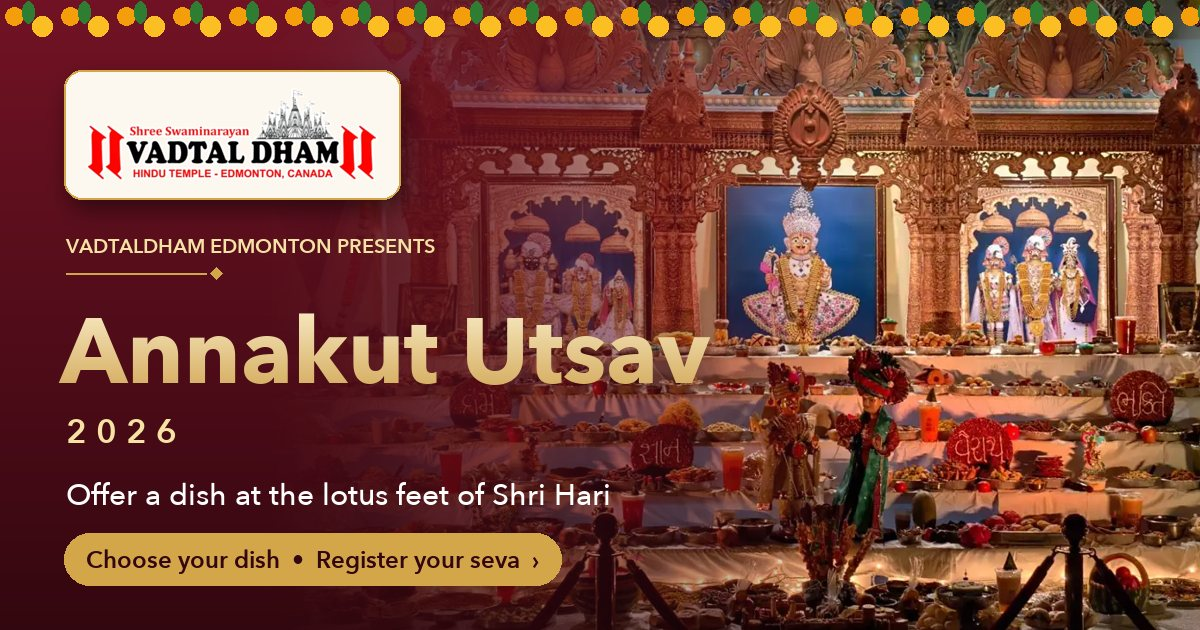
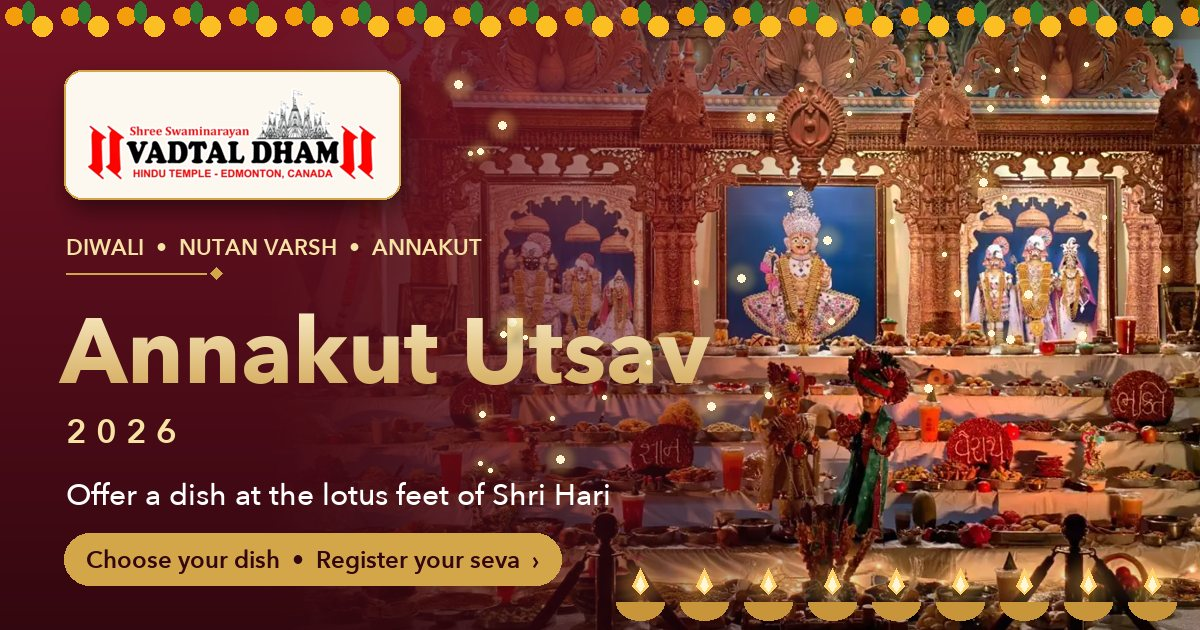
Diwali design, photo-fade hero, home button, section shortcuts, recipe tabs EN/GU/HI

diff --git a/index.html b/index.html
@@ -3,23 +3,23 @@
 <head>
 <meta charset="utf-8">
 <meta name="viewport" content="width=device-width,initial-scale=1,viewport-fit=cover">
-<title>Annakut Utsav 2026 | Vadtaldham Edmonton</title>
+<title>Diwali Annakut Utsav 2026 | Vadtaldham Edmonton</title>
 <meta name="description" content="Offer a dish at the lotus feet of Shri Hari. Choose from 970 Annakut dishes, read each recipe in English, Gujarati, Hindi or Punjabi, and register your seva in two easy steps.">
 <meta property="og:type" content="website">
 <meta property="og:site_name" content="Vadtaldham Edmonton">
 <meta property="og:url" content="https://vadtal1008.github.io/annakut-seva/">
-<meta property="og:title" content="Annakut Utsav 2026 · Offer a dish to Shri Hari">
+<meta property="og:title" content="Diwali Annakut Utsav 2026 · Offer a dish to Shri Hari">
 <meta property="og:description" content="Choose your dish from 970 Annakut offerings, see the recipe in your language, and register your seva at Vadtaldham Edmonton. Jay Swaminarayan!">
-<meta property="og:image" content="https://vadtal1008.github.io/annakut-seva/img/og.jpg">
-<meta property="og:image:secure_url" content="https://vadtal1008.github.io/annakut-seva/img/og.jpg">
+<meta property="og:image" content="https://vadtal1008.github.io/annakut-seva/img/og.jpg?v=diwali1">
+<meta property="og:image:secure_url" content="https://vadtal1008.github.io/annakut-seva/img/og.jpg?v=diwali1">
 <meta property="og:image:type" content="image/jpeg">
 <meta property="og:image:width" content="1200">
 <meta property="og:image:height" content="630">
 <meta property="og:image:alt" content="Annakut Utsav 2026 at Vadtaldham Edmonton: the decorated altar with hundreds of dishes">
 <meta name="twitter:card" content="summary_large_image">
-<meta name="twitter:title" content="Annakut Utsav 2026 · Offer a dish to Shri Hari">
+<meta name="twitter:title" content="Diwali Annakut Utsav 2026 · Offer a dish to Shri Hari">
 <meta name="twitter:description" content="Choose your dish, see the recipe in your language, and register your seva at Vadtaldham Edmonton.">
-<meta name="twitter:image" content="https://vadtal1008.github.io/annakut-seva/img/og.jpg">
+<meta name="twitter:image" content="https://vadtal1008.github.io/annakut-seva/img/og.jpg?v=diwali1">
 <meta name="theme-color" content="#721325">
 <link rel="icon" href="img/icon.png">
 <link rel="preconnect" href="https://fonts.googleapis.com"><link rel="preconnect" href="https://fonts.gstatic.com" crossorigin>
@@ -40,6 +40,40 @@ button{cursor:pointer}
 .hero{position:relative;overflow:hidden;color:#fff;text-align:center;padding:64px max(16px,env(safe-area-inset-right)) 120px max(16px,env(safe-area-inset-left));
 background:radial-gradient(90% 70% at 50% 0%,rgba(212,166,74,.22),transparent 60%),radial-gradient(60% 60% at 0% 100%,rgba(232,137,28,.18),transparent 70%),linear-gradient(180deg,var(--m7) 0%,var(--m8) 55%,var(--m9) 100%);transition:padding .3s}
 .hero.compact{padding-top:58px;padding-bottom:96px}
+.hero-photo{position:absolute;inset:0;background:url(img/g/1.webp) right 30%/auto 118% no-repeat;opacity:.62;-webkit-mask-image:linear-gradient(90deg,transparent 0%,rgba(0,0,0,.25) 28%,#000 62%),linear-gradient(180deg,#000 60%,transparent 100%);-webkit-mask-composite:source-in;mask-image:linear-gradient(90deg,transparent 0%,rgba(0,0,0,.25) 28%,#000 62%),linear-gradient(180deg,#000 60%,transparent 100%);mask-composite:intersect;pointer-events:none}
+@media(max-width:820px){.hero-photo{background-position:center top;background-size:cover;opacity:.42;-webkit-mask-image:linear-gradient(180deg,#000 30%,transparent 92%);mask-image:linear-gradient(180deg,#000 30%,transparent 92%)}}
+.hero.compact .hero-photo{opacity:.3}
+.kandil{position:absolute;top:36px;width:52px;height:130px;pointer-events:none;transform-origin:50% 0;animation:swing 4s ease-in-out infinite alternate;filter:drop-shadow(0 0 14px rgba(251,191,36,.55))}
+.k1{left:max(18px,calc(50% - 560px))}.k2{right:max(18px,calc(50% - 560px));animation-delay:-2s;top:36px;height:160px;width:60px}
+@keyframes swing{from{transform:rotate(-5deg)}to{transform:rotate(5deg)}}
+.bursts{position:absolute;inset:0;pointer-events:none}
+.burst{position:absolute;width:150px;height:150px;border-radius:50%;background:repeating-conic-gradient(from 0deg,rgba(255,214,107,.95) 0 2.5deg,transparent 2.5deg 18deg);-webkit-mask:radial-gradient(circle,transparent 22%,#000 24%,#000 46%,transparent 50%);mask:radial-gradient(circle,transparent 22%,#000 24%,#000 46%,transparent 50%);opacity:0;animation:pop 4.2s ease-out infinite}
+.b1{left:14%;top:70px}.b2{right:12%;top:150px;width:120px;height:120px;animation-delay:1.3s;filter:hue-rotate(-30deg)}.b3{left:30%;top:260px;width:100px;height:100px;animation-delay:2.4s}.b4{right:30%;top:40px;width:90px;height:90px;animation-delay:3.1s;filter:hue-rotate(40deg)}
+@keyframes pop{0%{opacity:0;transform:scale(.2)}12%{opacity:.9}55%{opacity:.35;transform:scale(1.15)}100%{opacity:0;transform:scale(1.3)}}
+.twinkles{position:absolute;inset:0;pointer-events:none}
+.twinkles b{position:absolute;width:5px;height:5px;border-radius:50%;background:#fff6d6;box-shadow:0 0 8px 2px rgba(255,214,107,.8);animation:twinkle 3s ease-in-out infinite}
+@keyframes twinkle{0%,100%{opacity:.15}50%{opacity:1}}
+.diyas{position:absolute;left:0;right:0;bottom:84px;display:flex;justify-content:center;gap:clamp(10px,3vw,34px);pointer-events:none;z-index:1}
+.diyas i{display:block;width:clamp(30px,5vw,48px);filter:drop-shadow(0 0 10px rgba(255,190,80,.7))}
+.diyas svg{display:block;width:100%;height:auto}
+.diyas .flame{transform-origin:40px 32px;animation:flick 1.6s ease-in-out infinite alternate}
+.diyas i:nth-child(2n) .flame{animation-duration:1.2s}
+@keyframes flick{0%{transform:scale(1,1)}50%{transform:scale(.88,1.12)}100%{transform:scale(1.06,.9)}}
+.hero.compact .diyas,.hero.compact .bursts,.hero.compact .kandil{display:none}
+@media(max-width:680px){.diyas i:nth-child(n+8){display:none}.kandil{display:none}.burst{width:90px!important;height:90px!important}}
+.homebtn{position:absolute;top:52px;left:max(12px,env(safe-area-inset-left));z-index:3;display:none;align-items:center;gap:6px;background:rgba(51,7,15,.45);border:1px solid rgba(212,166,74,.7);color:var(--gold-l);border-radius:999px;padding:6px 16px 6px 12px;min-height:46px;font-weight:600;backdrop-filter:blur(4px)}
+.homebtn svg{width:20px;height:20px}
+.hero.compact .homebtn{display:inline-flex}
+@media(max-width:680px){.hero.compact .langs{justify-content:flex-end;left:auto}.homebtn{top:50px}}
+@media(max-width:520px){.homebtn{padding:0;width:46px;justify-content:center}.homebtn span{position:absolute;width:1px;height:1px;overflow:hidden;clip:rect(0 0 0 0)}.hero.compact .langs button{padding:6px 11px}}
+.chips{position:sticky;top:0;z-index:4;margin:0 -4px 18px;padding:10px 4px;background:rgba(253,248,239,.96);backdrop-filter:blur(6px);border-bottom:1px solid var(--line)}
+.chips-l{display:block;font-size:.8rem;font-weight:600;color:var(--muted);margin:0 0 6px 4px}
+.chips-row{display:flex;gap:8px;overflow-x:auto;scrollbar-width:thin;padding:2px 2px 6px;scroll-behavior:smooth}
+.chip{flex:none;display:inline-flex;align-items:center;gap:6px;min-height:46px;padding:6px 16px;border-radius:999px;border:1px solid var(--gold);background:#fff;color:var(--m7);font-weight:600;white-space:nowrap}
+.chip.on{background:linear-gradient(180deg,var(--m6),var(--m8));color:var(--gold-l);border-color:var(--m8)}
+.chip.home{background:linear-gradient(180deg,#f7dc8f,var(--gold));color:var(--m9);border-color:var(--gold-d)}
+.chip em{font-style:normal;font-size:.75rem;background:var(--gold);color:var(--m9);border-radius:999px;padding:1px 8px}
+.chip.on em{background:var(--gold-l)}
 .toran{position:absolute;left:0;right:0;top:0;height:44px;pointer-events:none;
 background:radial-gradient(circle at 14px 16px,#f59e0b 0 9px,transparent 10px) 0 0/56px 44px repeat-x,radial-gradient(circle at 42px 26px,#fbbf24 0 10px,transparent 11px) 0 0/56px 44px repeat-x,radial-gradient(ellipse 6px 11px at 28px 12px,#2f7d32 0 100%,transparent 101%) 0 0/56px 44px repeat-x,linear-gradient(180deg,rgba(0,0,0,.25),transparent) 0 0/100% 6px no-repeat;filter:drop-shadow(0 3px 3px rgba(0,0,0,.25))}
 .mandala{position:absolute;left:50%;top:52%;width:980px;height:980px;margin:-490px 0 0 -490px;opacity:.13;pointer-events:none;animation:turn 240s linear infinite}
@@ -203,17 +237,24 @@ dialog::backdrop{background:rgba(26,4,8,.7)}
 .rule b{display:block;color:var(--m8);font-size:1rem;margin-bottom:4px}
 .rule p{margin:0;color:#5a3d12;font-weight:500}
 .rule p+p{margin-top:6px;color:var(--muted);font-weight:400;font-size:.92rem}
-@media(prefers-reduced-motion:reduce){.mandala,.motif,.big,.spin{animation:none}}
+@media(prefers-reduced-motion:reduce){.mandala,.motif,.big,.spin,.kandil,.burst,.twinkles b,.diyas .flame{animation:none}.burst{display:none}}
 html:not([lang=en]) .caps,html:not([lang=en]) .badge,html:not([lang=en]) .eyebrow,html:not([lang=en]) .contact .tn{letter-spacing:.03em;text-transform:none}
 </style>
 </head>
 <body>
 <header class="hero" id="hero">
+  <div class="hero-photo" aria-hidden="true"></div>
   <div class="toran" aria-hidden="true"></div>
+  <div class="bursts" aria-hidden="true"><i class="burst b1"></i><i class="burst b2"></i><i class="burst b3"></i><i class="burst b4"></i></div>
+  <div class="twinkles" id="twinkles" aria-hidden="true"></div>
+  <svg class="kandil k1" aria-hidden="true"><use href="#d-kandil"/></svg>
+  <svg class="kandil k2" aria-hidden="true"><use href="#d-kandil"/></svg>
+  <button class="homebtn" data-go="home"><svg viewBox="0 0 24 24" fill="none" stroke="currentColor" stroke-width="2" stroke-linecap="round" stroke-linejoin="round" aria-hidden="true"><path d="M3 11 12 4l9 7"/><path d="M5 10v10h14V10"/><path d="M10 20v-6h4v6"/></svg><span id="t-home">Home</span></button>
   <svg class="mandala" id="mandala" viewBox="-500 -500 1000 1000" aria-hidden="true"></svg>
   <svg class="sprite" aria-hidden="true" focusable="false">
   <symbol id="d-kalash" viewBox="0 0 220 300"><g fill="#E8C06A"><path d="M110 74 Q84 40 52 44 Q74 70 110 74Z"/><path d="M110 74 Q136 40 168 44 Q146 70 110 74Z"/><path d="M110 76 Q70 66 40 82 Q74 92 110 76Z"/><path d="M110 76 Q150 66 180 82 Q146 92 110 76Z"/><circle cx="110" cy="50" r="24"/><path d="M88 80 L132 80 L128 100 L92 100Z"/><path d="M92 100 Q38 122 42 182 Q48 244 110 252 Q172 244 178 182 Q182 122 128 100Z"/><path d="M62 256 Q110 272 158 256 L164 268 Q110 288 56 268Z"/></g><g fill="none" stroke="#7a1426" stroke-width="3" opacity=".35"><path d="M50 150 Q110 170 170 150"/><path d="M46 196 Q110 218 174 196"/></g><path d="M110 26 Q103 14 110 2 Q117 14 110 26Z" fill="#fff1c4"/><g fill="#fff1c4"><circle cx="80" cy="176" r="4"/><circle cx="110" cy="182" r="4"/><circle cx="140" cy="176" r="4"/></g></symbol>
   <symbol id="d-annakut" viewBox="0 0 220 300"><path d="M110 58 V104" stroke="#E8C06A" stroke-width="4"/><path d="M110 58 L142 68 L110 78Z" fill="#fff1c4"/><g fill="#E8C06A"><circle cx="110" cy="120" r="14"/><circle cx="96" cy="148" r="14"/><circle cx="124" cy="148" r="14"/><circle cx="82" cy="176" r="14"/><circle cx="110" cy="176" r="14"/><circle cx="138" cy="176" r="14"/><circle cx="68" cy="204" r="14"/><circle cx="96" cy="204" r="14"/><circle cx="124" cy="204" r="14"/><circle cx="152" cy="204" r="14"/><circle cx="54" cy="232" r="14"/><circle cx="82" cy="232" r="14"/><circle cx="110" cy="232" r="14"/><circle cx="138" cy="232" r="14"/><circle cx="166" cy="232" r="14"/></g><g fill="#fff1c4" opacity=".8"><circle cx="105" cy="115" r="3"/><circle cx="91" cy="143" r="3"/><circle cx="119" cy="143" r="3"/><circle cx="77" cy="171" r="3"/><circle cx="105" cy="171" r="3"/><circle cx="133" cy="171" r="3"/><circle cx="63" cy="199" r="3"/><circle cx="91" cy="199" r="3"/><circle cx="119" cy="199" r="3"/><circle cx="147" cy="199" r="3"/><circle cx="49" cy="227" r="3"/><circle cx="77" cy="227" r="3"/><circle cx="105" cy="227" r="3"/><circle cx="133" cy="227" r="3"/><circle cx="161" cy="227" r="3"/></g><path d="M20 254 Q110 238 200 254" stroke="#E8C06A" stroke-width="4" fill="none"/><path d="M12 254 Q110 290 208 254 Q200 274 110 282 Q20 274 12 254Z" fill="#E8C06A"/></symbol>
+  <symbol id="d-kandil" viewBox="0 0 80 200"><path d="M40 0 V48" stroke="#E8C06A" stroke-width="2"/><path d="M40 48 L66 84 L58 128 L40 140 L22 128 L14 84Z" fill="#e8891c" opacity=".9"/><path d="M40 48 L52 84 L48 128 L40 140 L32 128 L28 84Z" fill="#fbbf24"/><path d="M14 84 H66 M18 106 H62 M22 128 H58" stroke="#7a1426" stroke-width="2" opacity=".5"/><circle cx="40" cy="96" r="7" fill="#fff6d6"/><g stroke="#E8C06A" stroke-width="2"><path d="M30 140 V186 M40 140 V196 M50 140 V186"/></g><g fill="#fff1c4"><circle cx="30" cy="188" r="3"/><circle cx="40" cy="198" r="3"/><circle cx="50" cy="188" r="3"/></g></symbol>
   <symbol id="d-diya" viewBox="0 0 80 60"><path d="M40 2 Q50 16 40 28 Q30 16 40 2 Z" fill="#fff1c4"/><path d="M6 32 Q40 30 74 32 Q66 56 40 56 Q14 56 6 32 Z" fill="#E8C06A"/><path d="M14 38 Q40 44 66 38" stroke="#7a1426" stroke-width="2" fill="none" opacity=".4"/></symbol>
   <symbol id="d-laddoo" viewBox="0 0 80 64"><g fill="#E8C06A"><circle cx="18" cy="50" r="11"/><circle cx="40" cy="50" r="11"/><circle cx="62" cy="50" r="11"/><circle cx="29" cy="31" r="11"/><circle cx="51" cy="31" r="11"/><circle cx="40" cy="12" r="11"/></g><g fill="#fff1c4"><circle cx="14" cy="46" r="2.5"/><circle cx="36" cy="46" r="2.5"/><circle cx="58" cy="46" r="2.5"/><circle cx="25" cy="27" r="2.5"/><circle cx="47" cy="27" r="2.5"/><circle cx="36" cy="8" r="2.5"/></g></symbol>
   <symbol id="d-lotus" viewBox="0 0 80 60"><g fill="#E8C06A"><path d="M40 4 Q53 26 40 48 Q27 26 40 4Z"/><path d="M40 48 Q15 40 6 18 Q30 22 40 48Z"/><path d="M40 48 Q65 40 74 18 Q50 22 40 48Z"/></g><path d="M8 52 Q40 62 72 52" stroke="#fff1c4" stroke-width="3" fill="none"/></symbol>
@@ -227,6 +268,7 @@ html:not([lang=en]) .caps,html:not([lang=en]) .badge,html:not([lang=en]) .eyebro
   <svg class="doodle motif m5" aria-hidden="true"><use href="#d-laddoo"/></svg>
   <svg class="doodle motif m6" aria-hidden="true"><use href="#d-lotus"/></svg>
   <div class="langs" role="group" aria-label="Language"><button data-lang="en">English</button><button data-lang="gu">ગુજરાતી</button><button data-lang="hi">हिंदी</button></div>
+  <div class="diyas" id="diyas" aria-hidden="true"></div>
   <div class="hero-inner">
     <div class="plaque"><img src="img/logo-wide.webp" alt="Shree Swaminarayan Vadtal Dham, Hindu Temple, Edmonton, Canada" width="300" height="101"></div>
     <div class="presents caps" id="t-pre"></div>
@@ -271,7 +313,7 @@ const CATS = [
   [14,'Dry Fruits & Mukhvas','સૂકો મેવો અને મુખવાસ','सूखे मेवे और मुखवास',1048]
 ];
 const T = {
-  en:{ruleT:'Important when preparing prasad',rule:'When making any dish, please do not use onion, garlic or hing (asafoetida). Strain and filter all ghee, oil, milk and water before use.',moreLang:'Other languages',pickLang:'Choose a language…',hint:'You can also choose dishes from other sections.',other:'← Choose from another section',inCat:n=>'✓ '+n+' selected',pre:'Shree Hindu Swaminarayan Temple · Vadtaldham Edmonton',title:'Annakut Utsav',badge:'✦ Annakut Seva ✦',fDish:'dishes to offer',fOpen:'still open',fLang:'recipe languages',fWhere:'Edmonton',bless:'Jay Swaminarayan',contact:'Contact the temple',addr:'Address',ph:'Phone',em:'Email',map:'Open in Google Maps',req:'Please fill in your name, phone and email.',gal:'2025 Annakut Utsav',galLead:'Moments from last year at Vadtal Dham Edmonton. Tap a photo to see it larger.',cap:'2025 Annakut Utsav · Vadtal Dham Edmonton',prev:'← Previous',next:'Next →',photo:'Photo',sub:'Offer a dish at the lotus feet of Shri Hari. Choose your dish, read its recipe, and register in two easy steps.',s1:'Choose dishes',s2:'Your details',s3:'Done',
+  en:{home:'Home',jump:'Jump to another section',ruleT:'Important when preparing prasad',rule:'When making any dish, please do not use onion, garlic or hing (asafoetida). Strain and filter all ghee, oil, milk and water before use.',moreLang:'Other languages',pickLang:'Choose a language…',hint:'You can also choose dishes from other sections.',other:'← Choose from another section',inCat:n=>'✓ '+n+' selected',pre:'Shree Hindu Swaminarayan Temple · Vadtaldham Edmonton',title:'Annakut Utsav',badge:'✦ Diwali · Nutan Varsh · Annakut ✦',fDish:'dishes to offer',fOpen:'still open',fLang:'recipe languages',fWhere:'Edmonton',bless:'Jay Swaminarayan',contact:'Contact the temple',addr:'Address',ph:'Phone',em:'Email',map:'Open in Google Maps',req:'Please fill in your name, phone and email.',gal:'2025 Annakut Utsav',galLead:'Moments from last year at Vadtal Dham Edmonton. Tap a photo to see it larger.',cap:'2025 Annakut Utsav · Vadtal Dham Edmonton',prev:'← Previous',next:'Next →',photo:'Photo',sub:'Offer a dish at the lotus feet of Shri Hari. Choose your dish, read its recipe, and register in two easy steps.',s1:'Choose dishes',s2:'Your details',s3:'Done',
     pick:'Choose a section',pickLead:'Tap a section to see its dishes. Each dish shows its photo; tap “View recipe” to read how to make it.',
     search:'Search by dish name or number',searchPh:'For example: Ladoo, Dhokla, 229',
     back:'← All sections',dishes:'dishes',open:'open',recipe:'View recipe',select:'Select',selected:'✓ Selected',taken:'Already offered',mine:'Your choice',
@@ -283,7 +325,7 @@ const T = {
     close:'Close',ing:'Ingredients',method:'Method',note:'Note',time:'Time',serves:'Serves',noRec:'The recipe for this dish is not available yet.',
     loading:'Loading recipe…',transl:'Translating recipe…',failed:'Could not load the recipe. Please check your internet and try again.',
     notOpen:'Registration will open soon. You can still browse dishes and recipes.',err:'Something went wrong. Please try again.',total:(a,b)=>a+' of '+b+' dishes still open'},
-  gu:{ruleT:'પ્રસાદ બનાવતી વખતે ખાસ ધ્યાન રાખો',rule:'કોઈ પણ વાનગી બનાવો ત્યારે ડુંગળી, લસણ અને હિંગનો ઉપયોગ ન કરવો. ઘી, તેલ, દૂધ, પાણી બધું ગાળી-ચાળીને વાપરવું.',moreLang:'બીજી ભાષાઓ',pickLang:'ભાષા પસંદ કરો…',hint:'તમે બીજા વિભાગમાંથી પણ વાનગી પસંદ કરી શકો છો.',other:'← બીજા વિભાગમાંથી પસંદ કરો',inCat:n=>'✓ '+n+' પસંદ કરી',pre:'શ્રી હિન્દુ સ્વામિનારાયણ મંદિર · વડતાલધામ એડમન્ટન',title:'અન્નકૂટ ઉત્સવ',badge:'✦ અન્નકૂટ સેવા ✦',fDish:'વાનગીઓ',fOpen:'હજી બાકી',fLang:'ભાષામાં રેસીપી',fWhere:'એડમન્ટન',bless:'જય સ્વામિનારાયણ',contact:'મંદિરનો સંપર્ક',addr:'સરનામું',ph:'ફોન',em:'ઈમેલ',map:'Google Maps માં ખોલો',req:'કૃપા કરીને નામ, ફોન અને ઈમેલ ભરો.',gal:'અન્નકૂટ ઉત્સવ 2025',galLead:'ગયા વર્ષના વડતાલ ધામ એડમન્ટનના દર્શન. મોટો ફોટો જોવા ટેપ કરો.',cap:'અન્નકૂટ ઉત્સવ 2025 · વડતાલ ધામ એડમન્ટન',prev:'← પાછળ',next:'આગળ →',photo:'ફોટો',sub:'શ્રી હરિના ચરણોમાં અન્નકૂટની સેવા. વાનગી પસંદ કરો, રેસીપી જુઓ અને બે સરળ પગલામાં નોંધણી કરો.',s1:'વાનગી પસંદ કરો',s2:'તમારી વિગત',s3:'પૂર્ણ',
+  gu:{home:'મુખ્ય પાનું',jump:'બીજા વિભાગમાં જાઓ',ruleT:'પ્રસાદ બનાવતી વખતે ખાસ ધ્યાન રાખો',rule:'કોઈ પણ વાનગી બનાવો ત્યારે ડુંગળી, લસણ અને હિંગનો ઉપયોગ ન કરવો. ઘી, તેલ, દૂધ, પાણી બધું ગાળી-ચાળીને વાપરવું.',moreLang:'બીજી ભાષાઓ',pickLang:'ભાષા પસંદ કરો…',hint:'તમે બીજા વિભાગમાંથી પણ વાનગી પસંદ કરી શકો છો.',other:'← બીજા વિભાગમાંથી પસંદ કરો',inCat:n=>'✓ '+n+' પસંદ કરી',pre:'શ્રી હિન્દુ સ્વામિનારાયણ મંદિર · વડતાલધામ એડમન્ટન',title:'અન્નકૂટ ઉત્સવ',badge:'✦ દિવાળી · નૂતન વર્ષ · અન્નકૂટ ✦',fDish:'વાનગીઓ',fOpen:'હજી બાકી',fLang:'ભાષામાં રેસીપી',fWhere:'એડમન્ટન',bless:'જય સ્વામિનારાયણ',contact:'મંદિરનો સંપર્ક',addr:'સરનામું',ph:'ફોન',em:'ઈમેલ',map:'Google Maps માં ખોલો',req:'કૃપા કરીને નામ, ફોન અને ઈમેલ ભરો.',gal:'અન્નકૂટ ઉત્સવ 2025',galLead:'ગયા વર્ષના વડતાલ ધામ એડમન્ટનના દર્શન. મોટો ફોટો જોવા ટેપ કરો.',cap:'અન્નકૂટ ઉત્સવ 2025 · વડતાલ ધામ એડમન્ટન',prev:'← પાછળ',next:'આગળ →',photo:'ફોટો',sub:'શ્રી હરિના ચરણોમાં અન્નકૂટની સેવા. વાનગી પસંદ કરો, રેસીપી જુઓ અને બે સરળ પગલામાં નોંધણી કરો.',s1:'વાનગી પસંદ કરો',s2:'તમારી વિગત',s3:'પૂર્ણ',
     pick:'વિભાગ પસંદ કરો',pickLead:'વિભાગ પર ટેપ કરો. દરેક વાનગી સાથે તેનો ફોટો છે; બનાવવાની રીત જોવા “રેસીપી જુઓ” દબાવો.',
     search:'વાનગીનું નામ અથવા નંબર શોધો',searchPh:'ઉદાહરણ: લાડુ, ઢોકળા, 229',
     back:'← બધા વિભાગ',dishes:'વાનગી',open:'બાકી',recipe:'રેસીપી જુઓ',select:'પસંદ કરો',selected:'✓ પસંદ કરેલ',taken:'સેવા નોંધાઈ ગઈ',mine:'તમારી પસંદ',
@@ -295,7 +337,7 @@ const T = {
     close:'બંધ કરો',ing:'સામગ્રી',method:'બનાવવાની રીત',note:'નોંધ',time:'સમય',serves:'પ્રમાણ',noRec:'આ વાનગીની રેસીપી હજુ ઉપલબ્ધ નથી.',
     loading:'રેસીપી ખુલે છે…',transl:'ભાષાંતર થાય છે…',failed:'રેસીપી ખુલી નહીં. ઇન્ટરનેટ તપાસી ફરી પ્રયત્ન કરો.',
     notOpen:'નોંધણી ટૂંક સમયમાં શરૂ થશે. ત્યાં સુધી વાનગી અને રેસીપી જોઈ શકો છો.',err:'કંઈક ખોટું થયું. ફરી પ્રયત્ન કરો.',total:(a,b)=>b+' માંથી '+a+' વાનગી બાકી'},
-  hi:{ruleT:'प्रसाद बनाते समय विशेष ध्यान रखें',rule:'कोई भी व्यंजन बनाते समय प्याज़, लहसुन और हींग का उपयोग न करें। घी, तेल, दूध और पानी सब छानकर ही उपयोग करें।',moreLang:'अन्य भाषाएँ',pickLang:'भाषा चुनें…',hint:'आप दूसरे विभागों से भी व्यंजन चुन सकते हैं।',other:'← दूसरे विभाग से चुनें',inCat:n=>'✓ '+n+' चुने',pre:'श्री हिन्दू स्वामिनारायण मंदिर · वडतालधाम एडमन्टन',title:'अन्नकूट उत्सव',badge:'✦ अन्नकूट सेवा ✦',fDish:'व्यंजन',fOpen:'अभी बाकी',fLang:'भाषाओं में रेसिपी',fWhere:'एडमन्टन',bless:'जय स्वामिनारायण',contact:'मंदिर से संपर्क',addr:'पता',ph:'फ़ोन',em:'ईमेल',map:'Google Maps में खोलें',req:'कृपया नाम, फ़ोन और ईमेल भरें।',gal:'अन्नकूट उत्सव 2025',galLead:'पिछले वर्ष वडताल धाम एडमन्टन के दर्शन। बड़ा फोटो देखने के लिए टैप करें।',cap:'अन्नकूट उत्सव 2025 · वडताल धाम एडमन्टन',prev:'← पिछला',next:'अगला →',photo:'फोटो',sub:'श्री हरि के चरणों में अन्नकूट सेवा। व्यंजन चुनें, रेसिपी देखें और दो आसान चरणों में पंजीकरण करें।',s1:'व्यंजन चुनें',s2:'आपकी जानकारी',s3:'पूर्ण',
+  hi:{home:'मुख्य पृष्ठ',jump:'दूसरे विभाग में जाएँ',ruleT:'प्रसाद बनाते समय विशेष ध्यान रखें',rule:'कोई भी व्यंजन बनाते समय प्याज़, लहसुन और हींग का उपयोग न करें। घी, तेल, दूध और पानी सब छानकर ही उपयोग करें।',moreLang:'अन्य भाषाएँ',pickLang:'भाषा चुनें…',hint:'आप दूसरे विभागों से भी व्यंजन चुन सकते हैं।',other:'← दूसरे विभाग से चुनें',inCat:n=>'✓ '+n+' चुने',pre:'श्री हिन्दू स्वामिनारायण मंदिर · वडतालधाम एडमन्टन',title:'अन्नकूट उत्सव',badge:'✦ दीपावली · नूतन वर्ष · अन्नकूट ✦',fDish:'व्यंजन',fOpen:'अभी बाकी',fLang:'भाषाओं में रेसिपी',fWhere:'एडमन्टन',bless:'जय स्वामिनारायण',contact:'मंदिर से संपर्क',addr:'पता',ph:'फ़ोन',em:'ईमेल',map:'Google Maps में खोलें',req:'कृपया नाम, फ़ोन और ईमेल भरें।',gal:'अन्नकूट उत्सव 2025',galLead:'पिछले वर्ष वडताल धाम एडमन्टन के दर्शन। बड़ा फोटो देखने के लिए टैप करें।',cap:'अन्नकूट उत्सव 2025 · वडताल धाम एडमन्टन',prev:'← पिछला',next:'अगला →',photo:'फोटो',sub:'श्री हरि के चरणों में अन्नकूट सेवा। व्यंजन चुनें, रेसिपी देखें और दो आसान चरणों में पंजीकरण करें।',s1:'व्यंजन चुनें',s2:'आपकी जानकारी',s3:'पूर्ण',
     pick:'विभाग चुनें',pickLead:'विभाग पर टैप करें। हर व्यंजन के साथ उसकी फोटो है; बनाने की विधि देखने के लिए “रेसिपी देखें” दबाएँ।',
     search:'व्यंजन का नाम या नंबर खोजें',searchPh:'उदाहरण: लड्डू, ढोकला, 229',
     back:'← सभी विभाग',dishes:'व्यंजन',open:'बाकी',recipe:'रेसिपी देखें',select:'चुनें',selected:'✓ चुना गया',taken:'सेवा हो चुकी',mine:'आपकी पसंद',
@@ -335,7 +377,7 @@ function renderChrome(){
   document.querySelectorAll('.langs button').forEach(b=>b.setAttribute('aria-pressed', b.dataset.lang===lang));
   $('#t-sub').textContent = t().sub + (CONFIG.DATE ? ' · '+CONFIG.DATE : '');
   $('#hero').classList.toggle('compact', view.v!=='home');
-  $('#t-pre').textContent=t().pre; $('#t-badge').textContent=t().badge;
+  $('#t-pre').textContent=t().pre; $('#t-home').textContent=t().home; $('#t-badge').textContent=t().badge;
   $('#t-title').innerHTML=`${esc(t().title)}<span class="year">2026</span>`;
   const openN=DISHES.filter(d=>!booked.has(d[0])).length, ic=p=>`<svg viewBox="0 0 24 24" fill="none" stroke="currentColor" stroke-width="1.8" stroke-linecap="round" stroke-linejoin="round" aria-hidden="true">${p}</svg>`;
   $('#facts').innerHTML=DISHES.length?[
@@ -384,7 +426,7 @@ function render(focus){
       <div class="mosaic">${Array.from({length:GAL},(_,i)=>`<button data-gal="${i+1}" aria-label="${esc(t().photo)} ${i+1}"><img src="img/g/${i?i+1+'t':1}.webp" alt="" loading="lazy"></button>`).join('')}</div></section>`;
   } else if(view.v==='cat'){
     const c=CATS.find(c=>c[0]===view.c), ds=DISHES.filter(d=>d[3]===view.c);
-    h = `<section class="card"><button class="back" data-go="home">${esc(t().back)}</button>${step('✦',catName(c),t().total(ds.filter(d=>!booked.has(d[0])).length, ds.length))}${ruleBox()}
+    h = `${chips(view.c)}<section class="card"><button class="back" data-go="home">${esc(t().back)}</button>${step('✦',catName(c),t().total(ds.filter(d=>!booked.has(d[0])).length, ds.length))}${ruleBox()}
       ${sel.size?`<p class="msg info">${esc(t().hint)}</p>`:''}<div class="list">${ds.map(card).join('')}</div>
       <div class="catnav"><button class="back" data-go="home">${esc(t().other)}</button>${sel.size?`<button class="btn" data-go="form">${esc(t().cont)}</button>`:''}</div></section>`;
   } else if(view.v==='form'){
@@ -405,6 +447,7 @@ function render(focus){
       <p>${esc(t().okShot)}</p><button class="btn" data-go="home">${esc(t().again)}</button></section>`;
   }
   app.innerHTML=h;
+  const on=document.querySelector('.chip.on'); if(on) on.parentNode.scrollLeft=on.offsetLeft-on.parentNode.offsetWidth/2+on.offsetWidth/2;
   if(focus){ app.focus({preventScroll:true}); window.scrollTo(0,0); }
 }
 function resultsHtml(){
@@ -419,8 +462,8 @@ const RTL={ur:1,ar:1};
 async function openRecipe(sn, rl){
   const d=BY[sn], dlg=$('#dlg'); rl = rl || (lang);
   $('#dlg-t').textContent = '#'+sn+' · '+nameOf(d)[0];
-  const tabs=`<div class="tabs" role="tablist">${[['en','English'],['gu','ગુજરાતી'],['hi','हिंदी'],['pa','ਪੰਜਾਬੀ']].map(([k,l])=>`<button role="tab" data-rl="${k}" data-sn="${sn}" aria-selected="${k===rl}">${l}</button>`).join('')}</div>
-    <div class="morelang"><label for="ml">${esc(t().moreLang)}</label><select id="ml" data-sn="${sn}"><option value="">${esc(t().pickLang)}</option>${MORE.filter(m=>m[0]!=='pa').map(([k,l])=>`<option value="${k}"${k===rl?' selected':''}>${l}</option>`).join('')}</select></div>`;
+  const tabs=`<div class="tabs" role="tablist">${[['en','English'],['gu','ગુજરાતી'],['hi','हिंदी']].map(([k,l])=>`<button role="tab" data-rl="${k}" data-sn="${sn}" aria-selected="${k===rl}">${l}</button>`).join('')}</div>
+    <div class="morelang"><label for="ml">${esc(t().moreLang)}</label><select id="ml" data-sn="${sn}"><option value="">${esc(t().pickLang)}</option>${MORE.map(([k,l])=>`<option value="${k}"${k===rl?' selected':''}>${l}</option>`).join('')}</select></div>`;
   const top=`<img class="hero-img" src="img/${sn}.webp" alt="${esc(d[2])}">${tabs}`;
   const body=$('#dlg-b');
   if(!dlg.open) dlg.showModal();
@@ -449,6 +492,7 @@ async function openRecipe(sn, rl){
   }catch(e){ if(!stale(sn,rl)) body.innerHTML = top + `<p class="msg err">${esc(t().failed)}</p>`; }
 }
 const ruleBox=()=>`<div class="rule" role="note"><svg aria-hidden="true"><use href="#d-diya"/></svg><div><b>${esc(t().ruleT)}</b><p lang="gu">${esc(T.gu.rule)}</p>${lang!=='gu'?`<p>${esc(t().rule)}</p>`:''}</div></div>`;
+const chips=cur=>`<nav class="chips" aria-label="${esc(t().jump)}"><span class="chips-l">${esc(t().jump)}</span><div class="chips-row"><button class="chip home" data-go="home">${esc(t().home)}</button>${CATS.map(c=>{const m=DISHES.filter(d=>d[3]===c[0]&&sel.has(d[0])).length;return `<button class="chip${c[0]===cur?' on':''}" data-cat="${c[0]}"${c[0]===cur?' aria-current="true"':''}>${esc(catName(c))}${m?`<em>${m}</em>`:''}</button>`}).join('')}</div></nav>`;
 const GAL=12;
 function showPhoto(i){
   $('#dlg-b').dataset.sn=''; $('#dlg-t').textContent=t().gal+' · '+i+' / '+GAL;
@@ -514,6 +558,11 @@ function fromHash(){ const m=location.hash.match(/^#r(\d+)(?:-([a-z]{2}(?:-[A-Z]
 window.addEventListener('hashchange',fromHash);
 $('#dlg').addEventListener('click',e=>{ if(e.target.id==='dlg') e.target.close(); });
 
+function drawLights(){
+  const D='<svg viewBox="0 0 80 64"><path class="flame" d="M40 4 Q52 20 40 32 Q28 20 40 4Z" fill="#ffd36b"/><path d="M40 14 Q45 22 40 28 Q35 22 40 14Z" fill="#fff6d6"/><path d="M6 36 Q40 34 74 36 Q66 60 40 60 Q14 60 6 36Z" fill="#c8953a"/><path d="M14 42 Q40 48 66 42" stroke="#7a1426" stroke-width="2" fill="none" opacity=".45"/></svg>';
+  $('#diyas').innerHTML=Array.from({length:11},(_,i)=>`<i style="animation-delay:${(i*.37%2).toFixed(2)}s">${D}</i>`).join('');
+  $('#twinkles').innerHTML=Array.from({length:26},(_,i)=>`<b style="left:${(i*37%100)}%;top:${(i*53%88)+4}%;animation-delay:${(i*.29%3).toFixed(2)}s;transform:scale(${.6+(i%4)*.25})"></b>`).join('');
+}
 function drawMandala(){
   let g='';[[90,12,38],[170,16,60],[260,24,70],[360,32,84],[455,40,60]].forEach(([R,n,h],k)=>{
     const w=Math.PI*R/n*.9; g+=`<circle r="${R-h*.55}" fill="none" stroke="#f6e2a4" stroke-width="1.2"/>`;
@@ -524,7 +573,7 @@ function drawMandala(){
   $('#mandala').innerHTML=g+'<circle r="26" fill="none" stroke="#f6e2a4" stroke-width="1.5"/><circle r="8" fill="#f6e2a4"/>';
 }
 (async function init(){
-  drawMandala();
+  drawMandala(); drawLights();
   renderChrome();
   $('#app').innerHTML='<p><span class="spin"></span>Loading…</p>';
   DISHES = await (await fetch('data/dishes.json')).json();
